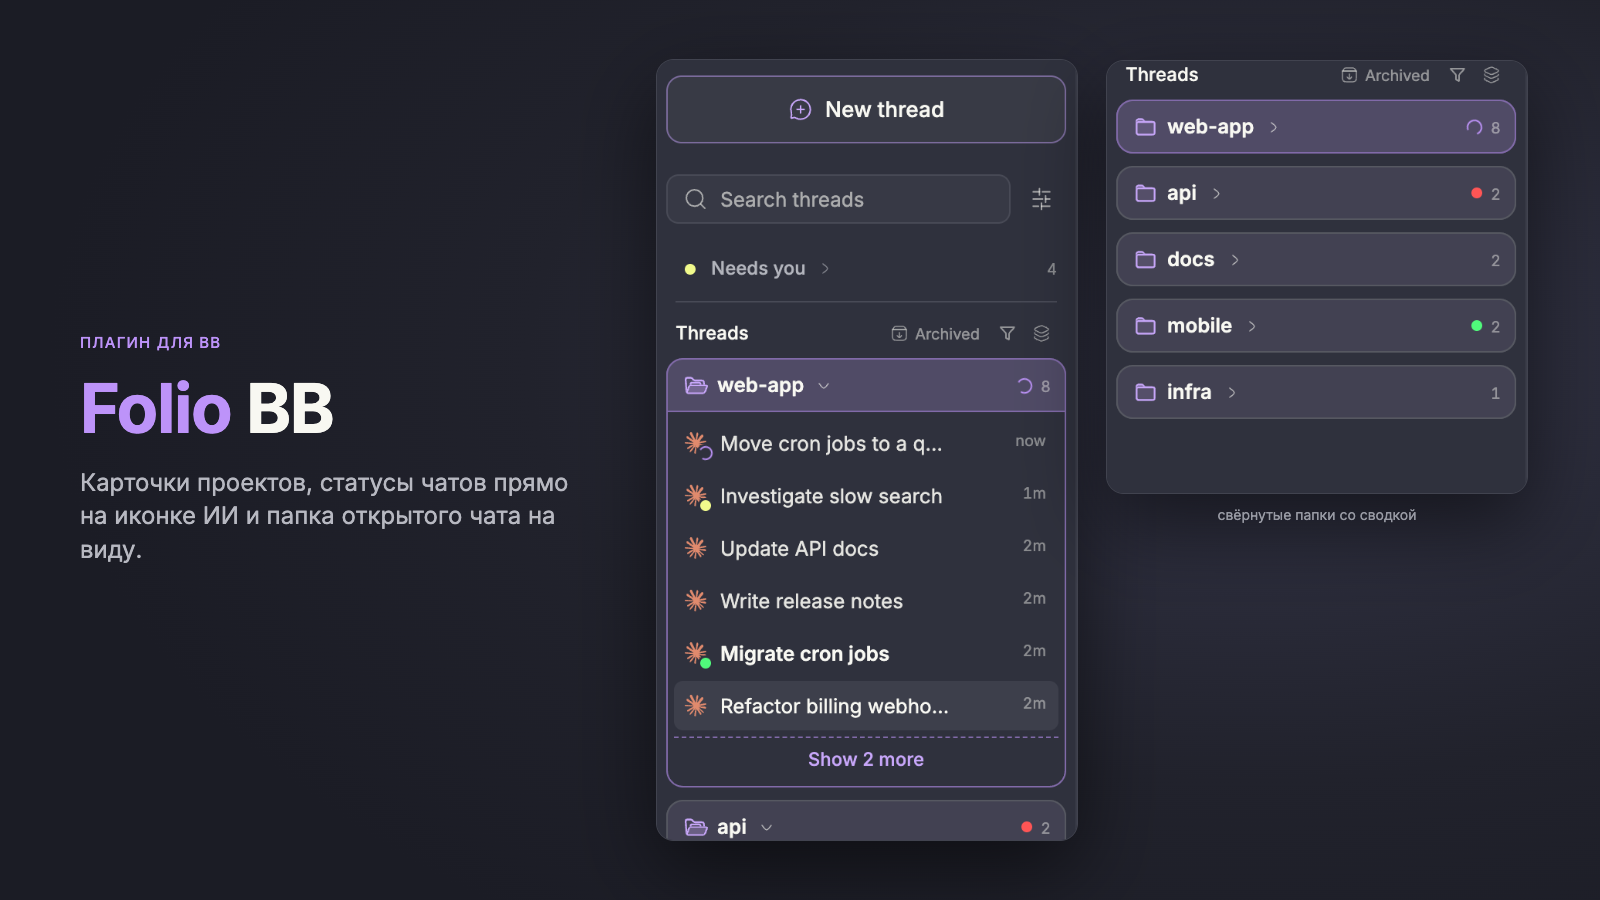
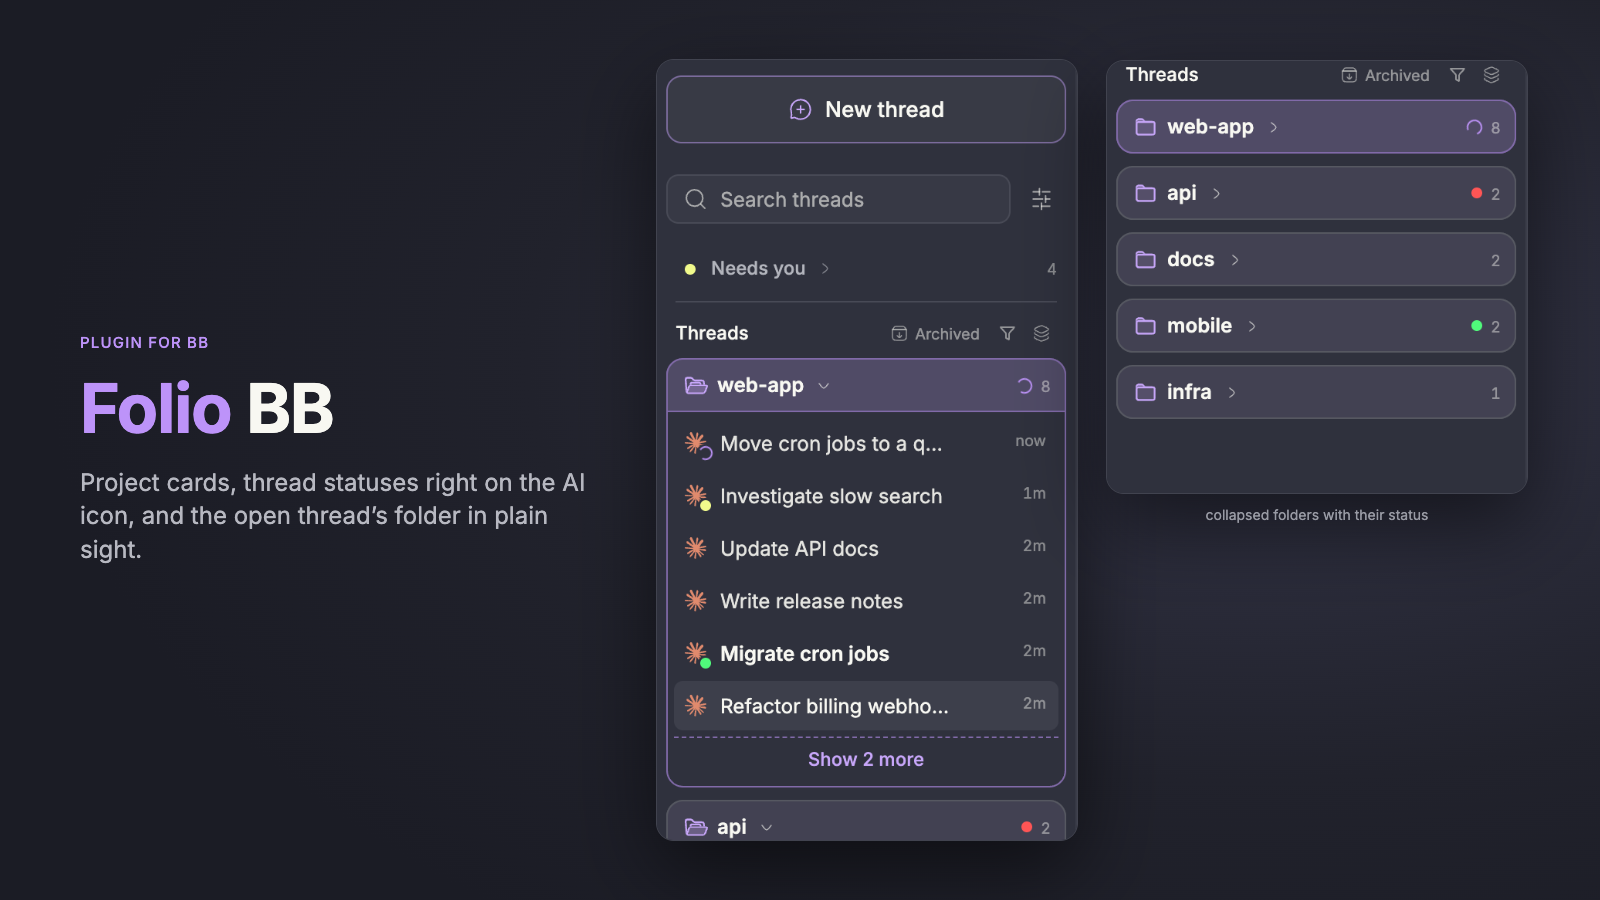
docs: English-only README and cover

Changed region(s): [[0.0312, 0.5289, 0.375, 0.6222], [0.75, 0.56, 0.875, 0.5911], [0.0625, 0.3733, 0.125, 0.4044]]

diff --git a/README.md b/README.md
@@ -128,36 +128,3 @@ bb plugin build
 `app.css` holds every style; colors are `--sp-*` variables built from bb theme tokens
 (`--primary`, `--sidebar`, `--sidebar-foreground`, `--muted-foreground`).
 `src/sidebarSync.ts` relabels and reorders Thread Tree rows without touching its React tree.
-
----
-
-## По-русски
-
-**Folio BB** меняет вид сайдбара bb. Папки проектов становятся карточками, и
-их шапка остаётся на месте при прокрутке. Чаты внутри проекта идут по последней
-активности, и рядом видно, сколько прошло: «сейчас», «5м», «3ч», «2д». В строке
-стоит иконка ИИ, на котором работает чат, а на её углу кружок статуса: колесико — работает,
-жёлтый — ждёт тебя, красный — ошибка, зелёный — закончил, а ты ещё не посмотрел. На шапке
-папки слева от счётчика сводка по всем её чатам, видна и у свёрнутой. Папка открытого чата
-подсвечена. Кнопка New thread
-растянута на всю ширину. В карточке видно 5 последних чатов, остальные открываются
-кнопкой «Ещё N». Открытый и работающие чаты не прячутся никогда.
-
-Цвета берутся из текущей темы bb, поэтому пакет подходит ко всем встроенным темам,
-светлым и тёмным. Акцентный цвет по умолчанию тоже из темы (в Dracula он фиолетовый).
-Свой цвет выбирается в Settings → Installed plugins → Folio BB → Accent color:
-кружки или поле `#rrggbb`, первый кружок возвращает цвет темы. Этот цвет плагин
-публикует в CSS-переменной `--folio-accent`, и Fuel BB берёт его оттуда,
-поэтому у сайдбара и полосы лимитов один цвет.
-
-Для карточек, сортировки и иконок нужен плагин Thread Tree. Без него меняется только
-кнопка New thread.
-
-Установка: `bb plugin install https://github.com/xaibu9/bb-plugin-folio.git`.
-Удаление: `bb plugin remove folio-bb`.
-
-Настройки: Settings → Installed plugins → Folio BB. Там язык подписей, сколько
-чатов показывать в карточке (0 — все) и выключатели каждой части.
-
-Плагин читает только время последнего хода каждого чата через SDK bb и хранит его
-в своём хранилище. В сеть не ходит, файлы не читает, к аккаунтам и паролям доступа нет.
